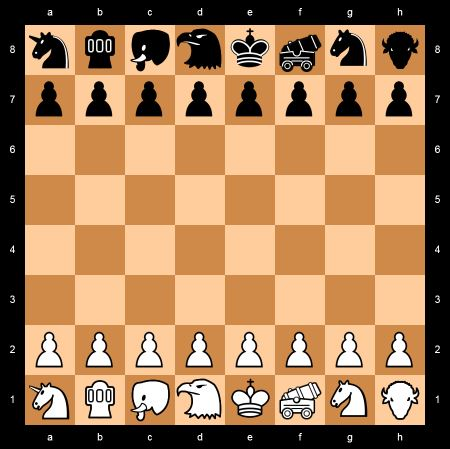
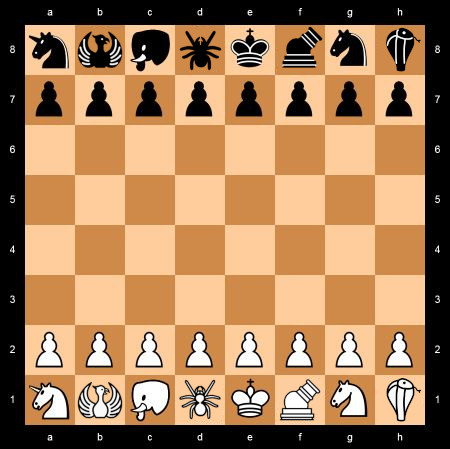
Team-Mate Chess: change piece representation
The Acromantula, Cobra and Phoenix are now replaced by Spider and pieces
of their own name. This required remaking of all the visuals.

diff --git a/src/games/chessbase/res/rules/team-mate/team-mate-rules.html b/src/games/chessbase/res/rules/team-mate/team-mate-rules.html
@@ -3,63 +3,87 @@
 <p>Except for the king and one knight all other pieces on the back rank are unorthodox, and different from each other.
 From a-file to h-file each player has a unicorn, a phoenix, an elephant, an aanca, a king, a mortar, a knight and a cobra.
 The king can castle in the usual way with the unicorn or the cobra.
-Pawns are normal FIDE pawns, except that they can promote only to one of the initially-present pieces other than king or aanca, or to the (not-initially present) Adjutant.
+Pawns are normal FIDE pawns, except that they can promote only to one of the initially-present pieces other than king or acromantula, or to the (not-initially present) Adjutant.
 From weak to strong the pieces are:
 </p>
 
 <h2>The Mortar</h2>
 
-<p style="text-align:center"><img style='max-width:100%' src="{GAME}/res/rules/team-mate/mortar.png"/></p>
-
+<table cellpadding="10"><tr><td width="300" align="center"><img style='max-width:100%' src="{GAME}/res/rules/fairy/cannon2.png"/>
+</td><td rowspan="2">
+<img style='max-width:100%' src="{GAME}/res/rules/team-mate/mortar.png"/>
+</td></tr><tr><td>
 <p>Jumps directly to the 2nd or 3rd square diagonally, i.e jumping over any occupied intermediate square.</p>
+</td></tr></table>
 
 <h2>The Elephant</h2>
 
-<p style="text-align:center"><img style='max-width:100%' src="{GAME}/res/rules/team-mate/elephant.png"/></p>
-
+<table cellpadding="10"><tr><td width="300" align="center"><img style='max-width:100%' src="{GAME}/res/rules/fairy/elephant.png"/>
+</td><td rowspan="2">
+<img style='max-width:100%' src="{GAME}/res/rules/team-mate/elephant.png"/>
+</td></tr><tr><td>
 <p>Steps diagonally one or two squares, leaping over the intermediate square if it is occupied.</p>
+</td></tr></table>
 
 <h2>The Phoenix</h2>
 
-<p style="text-align:center"><img style='max-width:100%' src="{GAME}/res/rules/team-mate/phoenix.png"/></p>
-
+<table cellpadding="10"><tr><td width="300" align="center"><img style='max-width:100%' src="{GAME}/res/rules/fairy/phoenix.png"/>
+</td><td rowspan="2">
+<img style='max-width:100%' src="{GAME}/res/rules/team-mate/phoenix.png"/>
+</td></tr><tr><td>
 <p>Steps one square orthogonally,
 or jumps two squares diagonally,
 leaping over the intermediate square if it is occupied.</p>
+</td></tr></table>
 
 <h2>The Unicorn</h2>
 
-<p style="text-align:center"><img style='max-width:100%' src="{GAME}/res/rules/team-mate/unicorn.png"/></p>
-
+<table cellpadding="10"><tr><td width="300" align="center"><img style='max-width:100%' src="{GAME}/res/rules/fairy/unicorn.png"/>
+</td><td rowspan="2">
+<img style='max-width:100%' src="{GAME}/res/rules/team-mate/unicorn.png"/>
+</td></tr><tr><td>
 <p>Steps one square orthogonally, or moves like an orthodox knight.</p>
+</td></tr></table>
 
 <h2>The Cobra</h2>
 
-<p style="text-align:center"><img style='max-width:100%' src="{GAME}/res/rules/team-mate/cobra.png"/></p>
-
+<table cellpadding="10"><tr><td width="300" align="center"><img style='max-width:100%' src="{GAME}/res/rules/fairy/cobra.png"/>
+</td><td rowspan="2">
+<img style='max-width:100%' src="{GAME}/res/rules/team-mate/cobra.png"/>
+</td></tr><tr><td>
 <p>Moves like an orthodox knight, but when this lands on an empty square,
 it can optionally slide on to the next square in the long direction of the initial knight jump.</p>
+</td></tr></table>
 
 <h2>The Adjutant</h2>
 
-<p style="text-align:center"><img style='max-width:100%' src="{GAME}/res/rules/team-mate/adjutant.png"/></p>
-
+<table cellpadding="10"><tr><td width="300" align="center"><img style='max-width:100%' src="{GAME}/res/rules/fairy/proper-crowned-rook.png"/>
+</td><td rowspan="2">
+<img style='max-width:100%' src="{GAME}/res/rules/team-mate/adjutant.png"/>
+</td></tr><tr><td>
 <p>Moves like an orthodox bishop,
 or like a rook that moves only an even number of steps,
 unobstructed by anything an odd number odd squares away.</p>
+</td></tr></table>
 
 <h2>The Acromantula</h2>
 
-<p style="text-align:center"><img style='max-width:100%' src="{GAME}/res/rules/team-mate/aanca.png"/></p>
-
+<table cellpadding="10"><tr><td width="300" align="center"><img style='max-width:100%' src="{GAME}/res/rules/fairy/spider.png"/>
+</td><td rowspan="2">
+<img style='max-width:100%' src="{GAME}/res/rules/team-mate/acromantula.png"/>
+</td></tr><tr><td>
 <p>Slides along a bent trajectory,
 starting with an orthogonal step,
 and then continuing in an outward diagonal direction.
 It cannot pass beyond any obstacle it encounters along this path.</p>
+</td></tr></table>
+
+<img style='max-width:100%' src="{GAME}/res/rules/fairy/king.png"/>
+<img style='max-width:100%' src="{GAME}/res/rules/fairy/knight.png"/>
+<img style='max-width:100%' src="{GAME}/res/rules/fairy/pawn.png"/>
 
 <p>The king, knight and pawn move like in orthodox chess; also castling is as in usual chess, with the pieces in the corners as partner.
 Pawns promote on the eighth row of the board to Mortar, Elephant, Phoenix, Knight, Unicorn, Cobra or Adjutant, to the owning players choice.</p>
-
 <p>A draw can be claimed after 64 moves (rather than 50) without capture or pawn advance.</p>
 
 <p>Other rules are as in orthodox chess. White starts to play.</p>

diff --git a/src/games/chessbase/team-mate-model.js b/src/games/chessbase/team-mate-model.js
@@ -175,7 +175,7 @@
 				
 				9: {
 					name: 'phoenix',
-					aspect: 'fr-lighthouse',
+					aspect: 'fr-phoenix',
 					graph: this.cbShortRangeGraph(geometry,
 						[[0,-1],[0,1],[1,0],[-1,0],[-2,2],[2,2],[2,-2],[-2,-2]]),
 					value: 3.1,
@@ -185,7 +185,7 @@
 				
 				10: {
 					name: 'cobra',
-					aspect: 'fr-buffalo',
+					aspect: 'fr-cobra',
 					graph: CobraGraph(2),
 					value: 4.8,
 					abbrev: 'C',
@@ -205,8 +205,8 @@
 				},
 				
 				12: {
-					name: 'aanca',
-					aspect: 'fr-eagle',
+					name: 'acromantula',
+					aspect: 'fr-spider',
 					graph: AancaGraph(),
 					value: 8.75,
 					abbrev: 'A',
